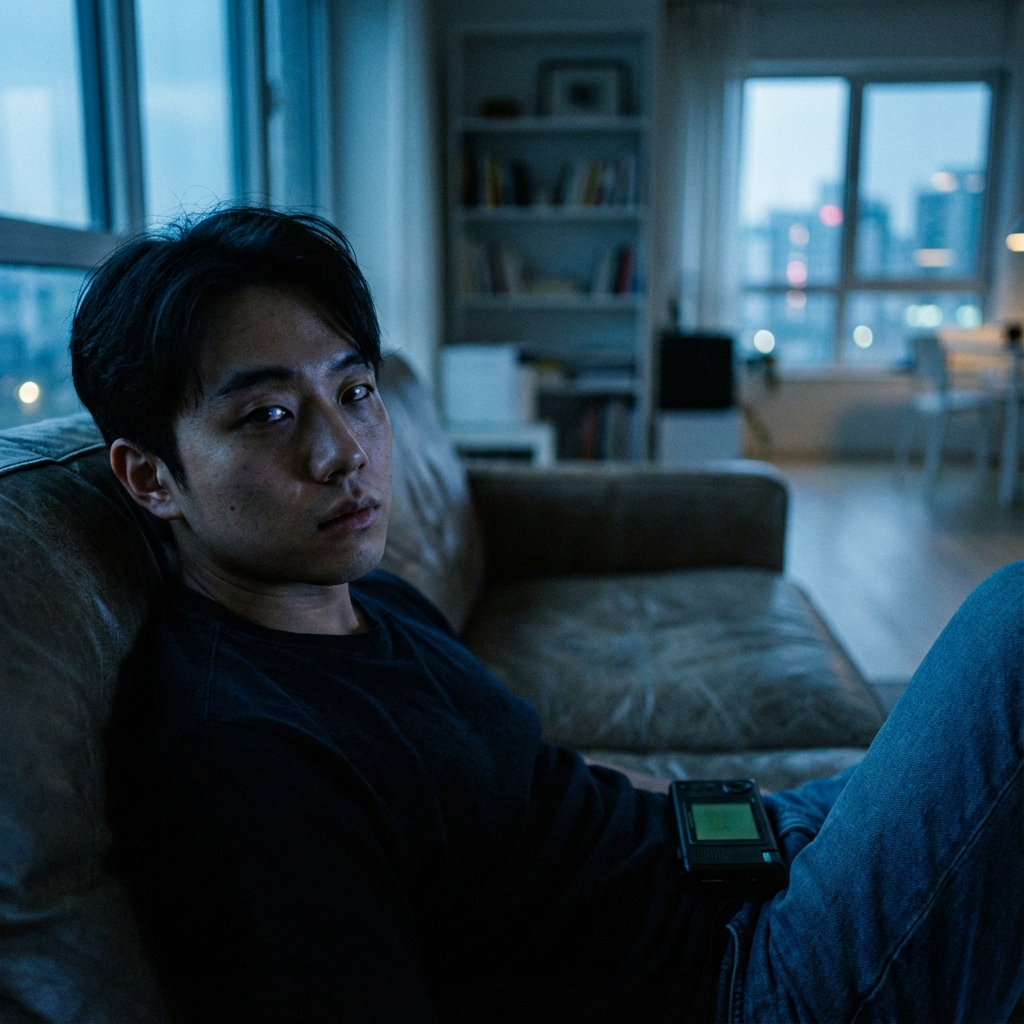
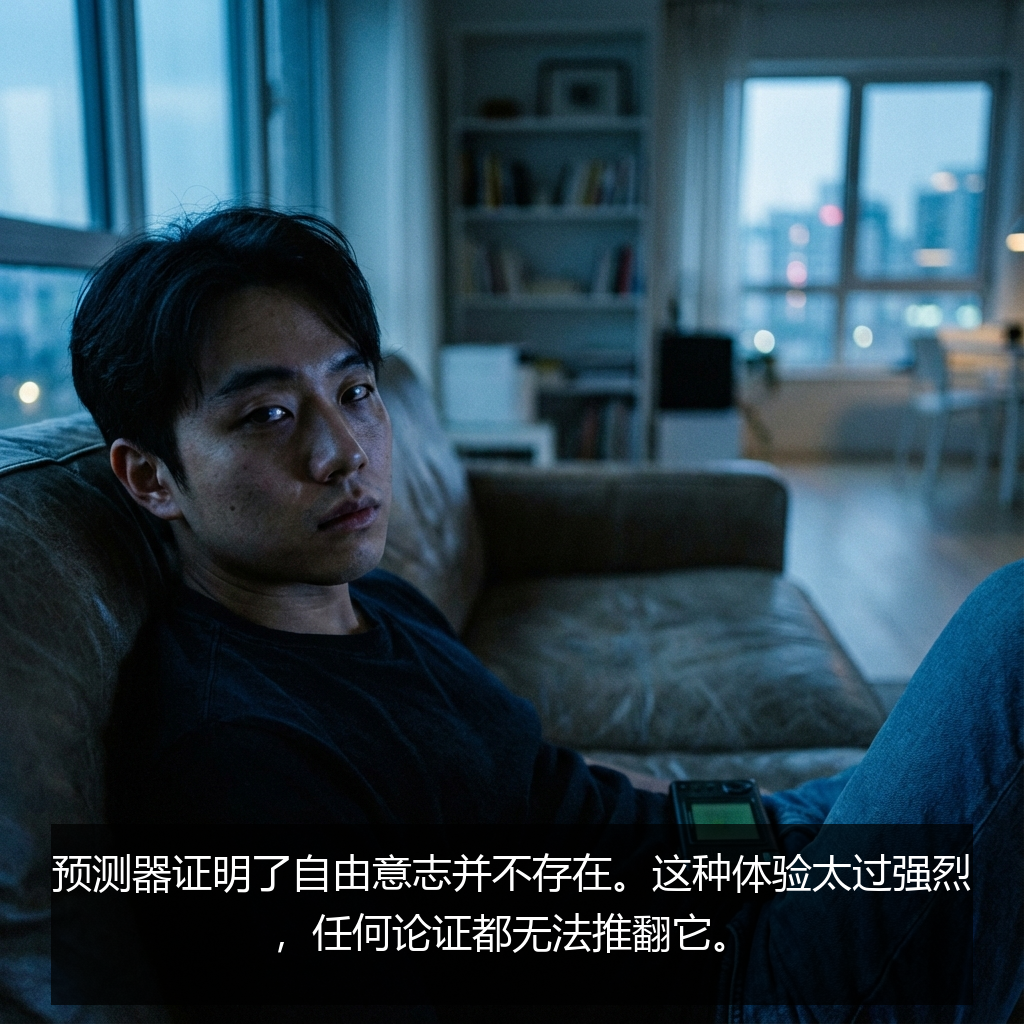
add chinese into picture book and make image self resize

Changed region(s): [[0.0312, 0.7812, 0.9688, 1.0], [0.0312, 0.9062, 0.0938, 1.0], [0.9375, 0.9062, 0.9688, 0.9688]]

diff --git a/predictor/index.html b/predictor/index.html
@@ -25,7 +25,7 @@
             <div class="text-container">
                 <p>This is a warning. By now you’ve probably seen a Predictor. It’s a small device, like a remote for
                     opening your car door. Its only features are a button and a big green LED.</p>
-                <p class="translation-cn">这是一个警告。到现在为止，你可能已经见过“预测器”了。它是一个小设备，就像你的汽车遥控钥匙。它唯一的特征是一个按钮和一个巨大的绿色LED灯。</p>
+
             </div>
         </section>
 
@@ -37,7 +37,7 @@
             <div class="text-container">
                 <p>The light flashes one second <em>before</em> you press the button. If you try to break the rules, you
                     find that you can’t. There’s no way to fool a Predictor.</p>
-                <p class="translation-cn">灯光会在你按下按钮的一秒钟<em>之前</em>闪烁。如果你试图打破规则，你会发现你做不到。没有任何方法可以欺骗预测器。</p>
+
             </div>
         </section>
 
@@ -49,7 +49,7 @@
             <div class="text-container">
                 <p>Predictors demonstrate that there’s no such thing as free will. The experience is too powerful for an
                     argument to overrule.</p>
-                <p class="translation-cn">预测器证明了自由意志并不存在。这种体验太过强烈，任何论证都无法推翻它。</p>
+
             </div>
         </section>
 
@@ -61,7 +61,7 @@
             <div class="text-container">
                 <p>Typically, a person plays with a Predictor compulsively for several days, showing it to friends,
                     trying various schemes to outwit the device.</p>
-                <p class="translation-cn">通常，一个人会强迫性地玩预测器好几天，向朋友展示，尝试各种计谋来胜过这个设备。</p>
+
             </div>
         </section>
 
@@ -73,7 +73,7 @@
             <div class="text-container">
                 <p>Eventually, a third of those who play with a Predictor must be hospitalized. The end state is
                     akinetic mutism, a kind of waking coma. The motivation to move is gone.</p>
-                <p class="translation-cn">最终，玩预测器的人中有三分之一必须住院。最终状态是“无动性缄默症”，一种清醒的昏迷。移动的动力消失了。</p>
+
             </div>
         </section>
 
@@ -85,7 +85,7 @@
             <div class="text-container">
                 <p>Doctors argue: "You had no free will before, why change now?" The patients invariably respond: "But
                     now I know." And some of them never say anything again.</p>
-                <p class="translation-cn">医生争辩说：“你以前也没有自由意志，为什么要现在改变？”病人总是回答：“但现在我知道了。”他们中的一些人再也没说过一句话。</p>
+
             </div>
         </section>
 
@@ -97,7 +97,7 @@
             <div class="text-container">
                 <p>I’m transmitting this warning from a year in your future. My message is this: pretend that you have
                     free will. Civilization now depends on self-deception.</p>
-                <p class="translation-cn">我是从你未来的一年后发来这个警告的。我的信息是：假装你有自由意志。文明现在依赖于自欺欺人。</p>
+
             </div>
         </section>
 
@@ -109,7 +109,7 @@
             <div class="text-container">
                 <p>I know it’s all predetermined who will succumb. My warning won’t alter those proportions. So why did
                     I do it? Because I had no choice.</p>
-                <p class="translation-cn">我知道谁会屈服都是注定的。我的警告不会改变这些比例。那我为什么还要这么做？因为我别无选择。</p>
+
             </div>
         </section>
     </main>
